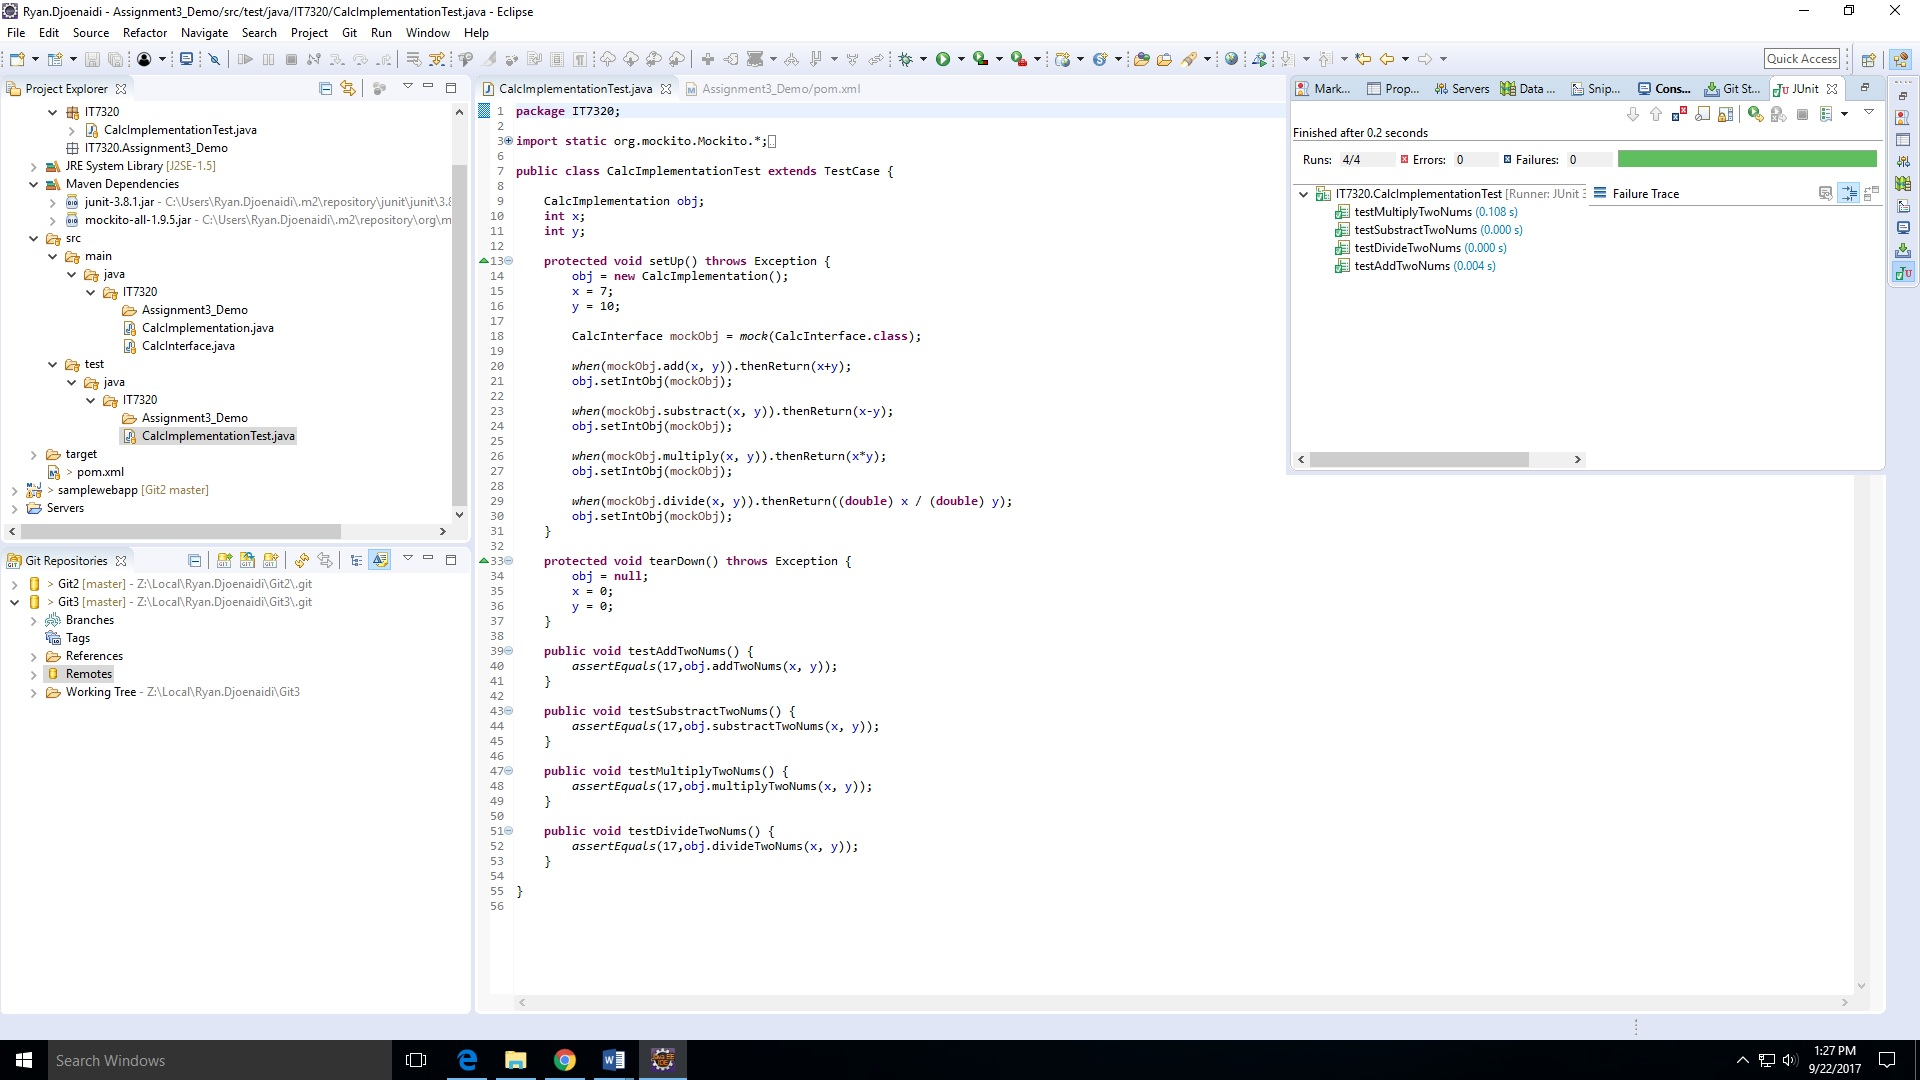
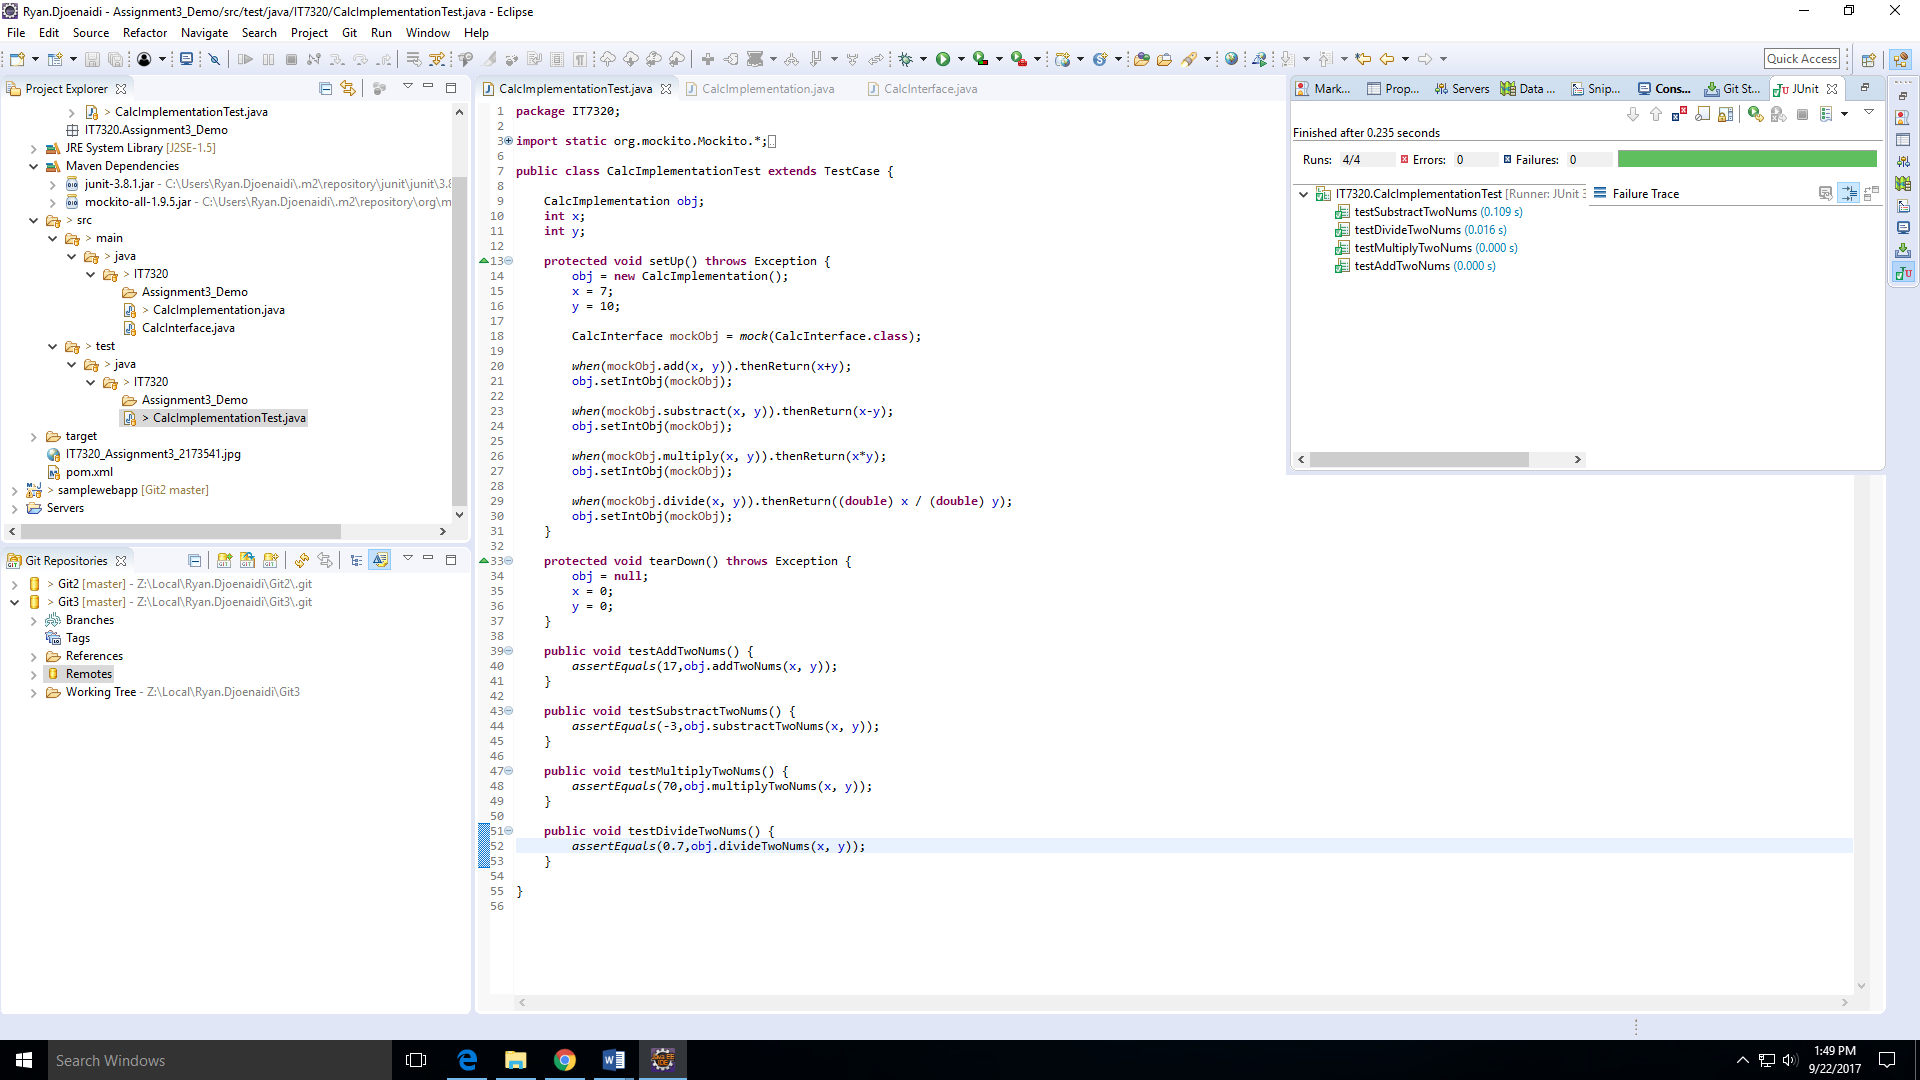
Fix wrong testing target

diff --git a/Assignment3_Demo/src/test/java/IT7320/CalcImplementationTest.java b/Assignment3_Demo/src/test/java/IT7320/CalcImplementationTest.java
@@ -41,15 +41,15 @@ public class CalcImplementationTest extends TestCase {
 	}
 	
 	public void testSubstractTwoNums() {
-		assertEquals(17,obj.substractTwoNums(x, y));
+		assertEquals(-3,obj.substractTwoNums(x, y));
 	}
 	
 	public void testMultiplyTwoNums() {
-		assertEquals(17,obj.multiplyTwoNums(x, y));
+		assertEquals(70,obj.multiplyTwoNums(x, y));
 	}
 	
 	public void testDivideTwoNums() {
-		assertEquals(17,obj.divideTwoNums(x, y));
+		assertEquals(0.7,obj.divideTwoNums(x, y));
 	}
 
 }

diff --git a/Assignment3_Demo/src/main/java/IT7320/CalcImplementation.java b/Assignment3_Demo/src/main/java/IT7320/CalcImplementation.java
@@ -9,15 +9,15 @@ public class CalcImplementation {
 	}
 	
 	public int substractTwoNums(int a, int b) {
-		return intObj.add(a, b);
+		return intObj.substract(a, b);
 	}
 	
 	public int multiplyTwoNums(int a, int b) {
-		return intObj.add(a, b);
+		return intObj.multiply(a, b);
 	}
 	
-	public int divideTwoNums(int a, int b) {
-		return intObj.add(a, b);
+	public double divideTwoNums(int a, int b) {
+		return intObj.divide(a, b);
 	}
 
 	public void setIntObj(CalcInterface intObj) {
